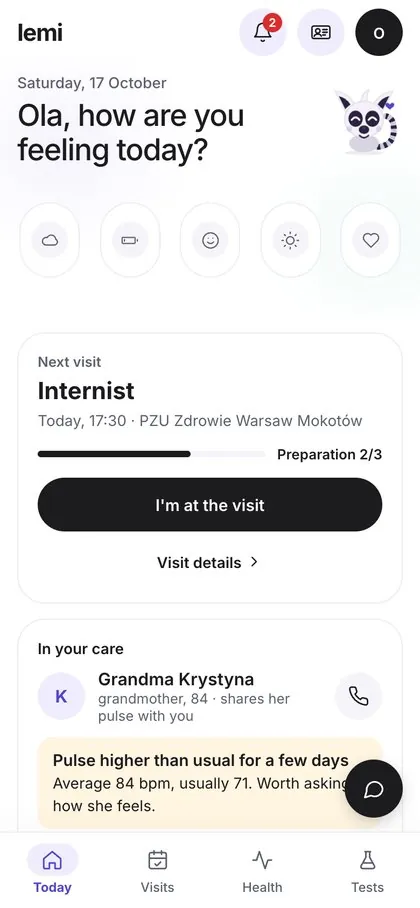
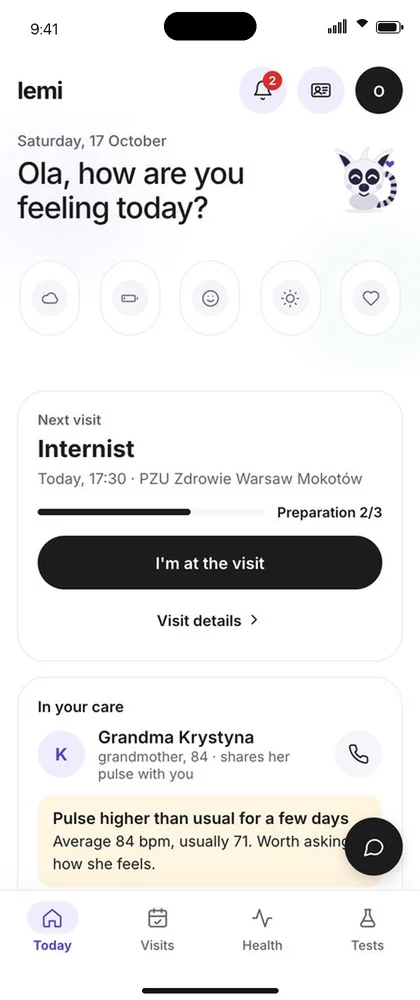
Lemi screens get a status bar and home indicator so they sit properly in the phone frames

diff --git a/index.html b/index.html
@@ -124,7 +124,7 @@ if(v==='data'||v==='design')document.documentElement.dataset.view=v;document.doc
 try{if(/[?&]fresh\b/.test(location.search)){sessionStorage.removeItem('ks-intro');sessionStorage.removeItem('ks-welcome')}}catch(e){}
 try{if(!location.hash&&!sessionStorage.getItem('ks-intro')&&!matchMedia('(prefers-reduced-motion: reduce)').matches&&!/bot|crawl|spider|slurp|lighthouse|google/i.test(navigator.userAgent))document.documentElement.classList.add('intro')}catch(e){}})();
 </script>
-<link rel="stylesheet" href="assets/site.css?v=038bdf31bb">
+<link rel="stylesheet" href="assets/site.css?v=7e3ff5c995">
 <script data-goatcounter="https://kachastepien.goatcounter.com/count" async src="//gc.zgo.at/count.js"></script>
 </head>
 <body>
@@ -407,10 +407,10 @@ try{if(!location.hash&&!sessionStorage.getItem('ks-intro')&&!matchMedia('(prefer
           <svg viewBox="0 0 16 16" fill="none" stroke="currentColor" stroke-width="1.6" aria-hidden="true"><path d="M5 11 11 5M6 5h5v5"/></svg></a></div>
       </div>
       <div class="lemi-phones">
-        <figure class="phone reveal"><div class="device"><img decoding="async" src="assets/lemi/welcome.webp" width="420" height="908" alt="Lemi welcome screen with demo accounts" loading="lazy"></div><figcaption><b>Start</b>Pick a demo account by age, or start your own.</figcaption></figure>
-        <figure class="phone reveal d1"><div class="device"><img decoding="async" src="assets/lemi/today.webp" width="420" height="908" alt="Lemi Today screen with mood, next visit and a relative's pulse" loading="lazy"></div><figcaption><b>Today</b>Mood, the next visit, and a grandmother whose pulse has been higher for days.</figcaption></figure>
-        <figure class="phone reveal"><div class="device"><img decoding="async" src="assets/lemi/visits.webp" width="420" height="908" alt="Lemi visit preparation screen" loading="lazy"></div><figcaption><b>Visits</b>Before, during, after: questions and a folder for the doctor.</figcaption></figure>
-        <figure class="phone reveal d1"><div class="device"><img decoding="async" src="assets/lemi/health.webp" width="420" height="908" alt="Lemi health screen with sleep, pulse, HRV and steps" loading="lazy"></div><figcaption><b>Health</b>Sleep, resting pulse, HRV, steps and mood over time.</figcaption></figure>
+        <figure class="phone reveal"><div class="device"><img decoding="async" src="assets/lemi/welcome.webp" width="420" height="1000" alt="Lemi welcome screen with demo accounts" loading="lazy"></div><figcaption><b>Start</b>Pick a demo account by age, or start your own.</figcaption></figure>
+        <figure class="phone reveal d1"><div class="device"><img decoding="async" src="assets/lemi/today.webp" width="420" height="1000" alt="Lemi Today screen with mood, next visit and a relative's pulse" loading="lazy"></div><figcaption><b>Today</b>Mood, the next visit, and a grandmother whose pulse has been higher for days.</figcaption></figure>
+        <figure class="phone reveal"><div class="device"><img decoding="async" src="assets/lemi/visits.webp" width="420" height="1000" alt="Lemi visit preparation screen" loading="lazy"></div><figcaption><b>Visits</b>Before, during, after: questions and a folder for the doctor.</figcaption></figure>
+        <figure class="phone reveal d1"><div class="device"><img decoding="async" src="assets/lemi/health.webp" width="420" height="1000" alt="Lemi health screen with sleep, pulse, HRV and steps" loading="lazy"></div><figcaption><b>Health</b>Sleep, resting pulse, HRV, steps and mood over time.</figcaption></figure>
         <p class="note" style="grid-column:1/-1;margin-top:2.5rem">Shown in English for this page; the demo runs in Polish.</p>
       </div>
     </div>

diff --git a/work/healthplatform/index.html b/work/healthplatform/index.html
@@ -19,7 +19,7 @@
 <link rel="preconnect" href="https://fonts.googleapis.com">
 <link rel="preconnect" href="https://fonts.gstatic.com" crossorigin>
 <link rel="stylesheet" href="https://fonts.googleapis.com/css2?family=Geist:wght@400;500;600;700&display=swap">
-<link rel="stylesheet" href="../../assets/site.css?v=038bdf31bb">
+<link rel="stylesheet" href="../../assets/site.css?v=7e3ff5c995">
 <script>document.documentElement.classList.add('js')</script>
 <script type="application/ld+json">{"@context": "https://schema.org", "@type": "CreativeWork", "name": "HealthPlatform: a health summary from a medical wearable", "description": "HealthPlatform, Katarzyna Stępień's engineering thesis: biometric data from a medical wristband and medical documents turned into health summaries with RAG and voice.", "url": "https://kachastepien.com/work/healthplatform/", "inLanguage": "en", "author": {"@type": "Person", "name": "Katarzyna Stępień", "alternateName": "Kacha", "url": "https://kachastepien.com/"}}</script>
 <script data-goatcounter="https://kachastepien.goatcounter.com/count" async src="//gc.zgo.at/count.js"></script>

diff --git a/work/sidly-erp/index.html b/work/sidly-erp/index.html
@@ -19,7 +19,7 @@
 <link rel="preconnect" href="https://fonts.googleapis.com">
 <link rel="preconnect" href="https://fonts.gstatic.com" crossorigin>
 <link rel="stylesheet" href="https://fonts.googleapis.com/css2?family=Geist:wght@400;500;600;700&display=swap">
-<link rel="stylesheet" href="../../assets/site.css?v=038bdf31bb">
+<link rel="stylesheet" href="../../assets/site.css?v=7e3ff5c995">
 <script>document.documentElement.classList.add('js')</script>
 <script type="application/ld+json">{"@context": "https://schema.org", "@type": "CreativeWork", "name": "Redesigning the ERP that runs public telecare", "description": "How Katarzyna Stępień is redesigning the SiDLY ERP used by 1,000+ municipalities and care providers: the problem, the process and six design decisions.", "url": "https://kachastepien.com/work/sidly-erp/", "inLanguage": "en", "author": {"@type": "Person", "name": "Katarzyna Stępień", "alternateName": "Kacha", "url": "https://kachastepien.com/"}}</script>
 <script data-goatcounter="https://kachastepien.goatcounter.com/count" async src="//gc.zgo.at/count.js"></script>

diff --git a/work/unmasked/index.html b/work/unmasked/index.html
@@ -19,7 +19,7 @@
 <link rel="preconnect" href="https://fonts.googleapis.com">
 <link rel="preconnect" href="https://fonts.gstatic.com" crossorigin>
 <link rel="stylesheet" href="https://fonts.googleapis.com/css2?family=Geist:wght@400;500;600;700&display=swap">
-<link rel="stylesheet" href="../../assets/site.css?v=038bdf31bb">
+<link rel="stylesheet" href="../../assets/site.css?v=7e3ff5c995">
 <script>document.documentElement.classList.add('js')</script>
 <script type="application/ld+json">{"@context": "https://schema.org", "@type": "CreativeWork", "name": "Unmasked: catching manipulative UX copy with NLP", "description": "Unmasked, Katarzyna Stępień's NLP project: a classifier for dark patterns in e-commerce copy (F1 0.936) shipped as an offline Chrome extension.", "url": "https://kachastepien.com/work/unmasked/", "inLanguage": "en", "author": {"@type": "Person", "name": "Katarzyna Stępień", "alternateName": "Kacha", "url": "https://kachastepien.com/"}}</script>
 <script data-goatcounter="https://kachastepien.goatcounter.com/count" async src="//gc.zgo.at/count.js"></script>

diff --git a/work/lemi/index.html b/work/lemi/index.html
@@ -19,7 +19,7 @@
 <link rel="preconnect" href="https://fonts.googleapis.com">
 <link rel="preconnect" href="https://fonts.gstatic.com" crossorigin>
 <link rel="stylesheet" href="https://fonts.googleapis.com/css2?family=Geist:wght@400;500;600;700&display=swap">
-<link rel="stylesheet" href="../../assets/site.css?v=038bdf31bb">
+<link rel="stylesheet" href="../../assets/site.css?v=7e3ff5c995">
 <script>document.documentElement.classList.add('js')</script>
 <script type="application/ld+json">{"@context": "https://schema.org", "@type": "CreativeWork", "name": "Lemi: health care without the stress", "description": "Lemi, Katarzyna Stępień's HackYeah 2026 project: a health guide that helps before, during and after a doctor's visit, built on the Claude API and ElevenLabs.", "url": "https://kachastepien.com/work/lemi/", "inLanguage": "en", "author": {"@type": "Person", "name": "Katarzyna Stępień", "alternateName": "Kacha", "url": "https://kachastepien.com/"}}</script>
 <script data-goatcounter="https://kachastepien.goatcounter.com/count" async src="//gc.zgo.at/count.js"></script>

diff --git a/work/ux-friction/index.html b/work/ux-friction/index.html
@@ -19,7 +19,7 @@
 <link rel="preconnect" href="https://fonts.googleapis.com">
 <link rel="preconnect" href="https://fonts.gstatic.com" crossorigin>
 <link rel="stylesheet" href="https://fonts.googleapis.com/css2?family=Geist:wght@400;500;600;700&display=swap">
-<link rel="stylesheet" href="../../assets/site.css?v=038bdf31bb">
+<link rel="stylesheet" href="../../assets/site.css?v=7e3ff5c995">
 <script>document.documentElement.classList.add('js')</script>
 <script type="application/ld+json">{"@context": "https://schema.org", "@type": "CreativeWork", "name": "UX friction detection, in real time", "description": "A real-time data platform by Katarzyna Stępień that detects rage clicks, abandonment and long screen times with Debezium, Kafka, Spark and Delta Lake.", "url": "https://kachastepien.com/work/ux-friction/", "inLanguage": "en", "author": {"@type": "Person", "name": "Katarzyna Stępień", "alternateName": "Kacha", "url": "https://kachastepien.com/"}}</script>
 <script data-goatcounter="https://kachastepien.goatcounter.com/count" async src="//gc.zgo.at/count.js"></script>

diff --git a/work/funnel-elt/index.html b/work/funnel-elt/index.html
@@ -19,7 +19,7 @@
 <link rel="preconnect" href="https://fonts.googleapis.com">
 <link rel="preconnect" href="https://fonts.gstatic.com" crossorigin>
 <link rel="stylesheet" href="https://fonts.googleapis.com/css2?family=Geist:wght@400;500;600;700&display=swap">
-<link rel="stylesheet" href="../../assets/site.css?v=038bdf31bb">
+<link rel="stylesheet" href="../../assets/site.css?v=7e3ff5c995">
 <script>document.documentElement.classList.add('js')</script>
 <script type="application/ld+json">{"@context": "https://schema.org", "@type": "CreativeWork", "name": "Where do users drop off?", "description": "A reproducible SQL ELT by Katarzyna Stępień for product funnel analytics on DuckDB, with a bronze, silver and gold model and six data-quality checks.", "url": "https://kachastepien.com/work/funnel-elt/", "inLanguage": "en", "author": {"@type": "Person", "name": "Katarzyna Stępień", "alternateName": "Kacha", "url": "https://kachastepien.com/"}}</script>
 <script data-goatcounter="https://kachastepien.goatcounter.com/count" async src="//gc.zgo.at/count.js"></script>

diff --git a/work/sidly-health/index.html b/work/sidly-health/index.html
@@ -19,7 +19,7 @@
 <link rel="preconnect" href="https://fonts.googleapis.com">
 <link rel="preconnect" href="https://fonts.gstatic.com" crossorigin>
 <link rel="stylesheet" href="https://fonts.googleapis.com/css2?family=Geist:wght@400;500;600;700&display=swap">
-<link rel="stylesheet" href="../../assets/site.css?v=038bdf31bb">
+<link rel="stylesheet" href="../../assets/site.css?v=7e3ff5c995">
 <script>document.documentElement.classList.add('js')</script>
 <script type="application/ld+json">{"@context": "https://schema.org", "@type": "CreativeWork", "name": "SiDLY Health: one record, three people", "description": "How Katarzyna Stępień designed SiDLY Health: mobile and web apps that connect care managers, carers and residents around one visit.", "url": "https://kachastepien.com/work/sidly-health/", "inLanguage": "en", "author": {"@type": "Person", "name": "Katarzyna Stępień", "alternateName": "Kacha", "url": "https://kachastepien.com/"}}</script>
 <script data-goatcounter="https://kachastepien.goatcounter.com/count" async src="//gc.zgo.at/count.js"></script>

diff --git a/assets/site.css b/assets/site.css
@@ -1199,3 +1199,4 @@ html:not(.figon) .fc-a,html:not(.figon) .fc-d{opacity:0}
 @keyframes lmEarR{0%,88%,100%{transform:rotate(0)}92%{transform:rotate(12deg)}96%{transform:rotate(-4deg)}}
 /* win card kicker: plain text, no pill */
 .award .aw-kicker{border:0!important;padding:0!important;font-size:.85rem;letter-spacing:.01em}
+.device:has(img[src*="lemi/"]){aspect-ratio:420/1000}.device:has(img[src*="lemi/"]) img{object-fit:contain}
